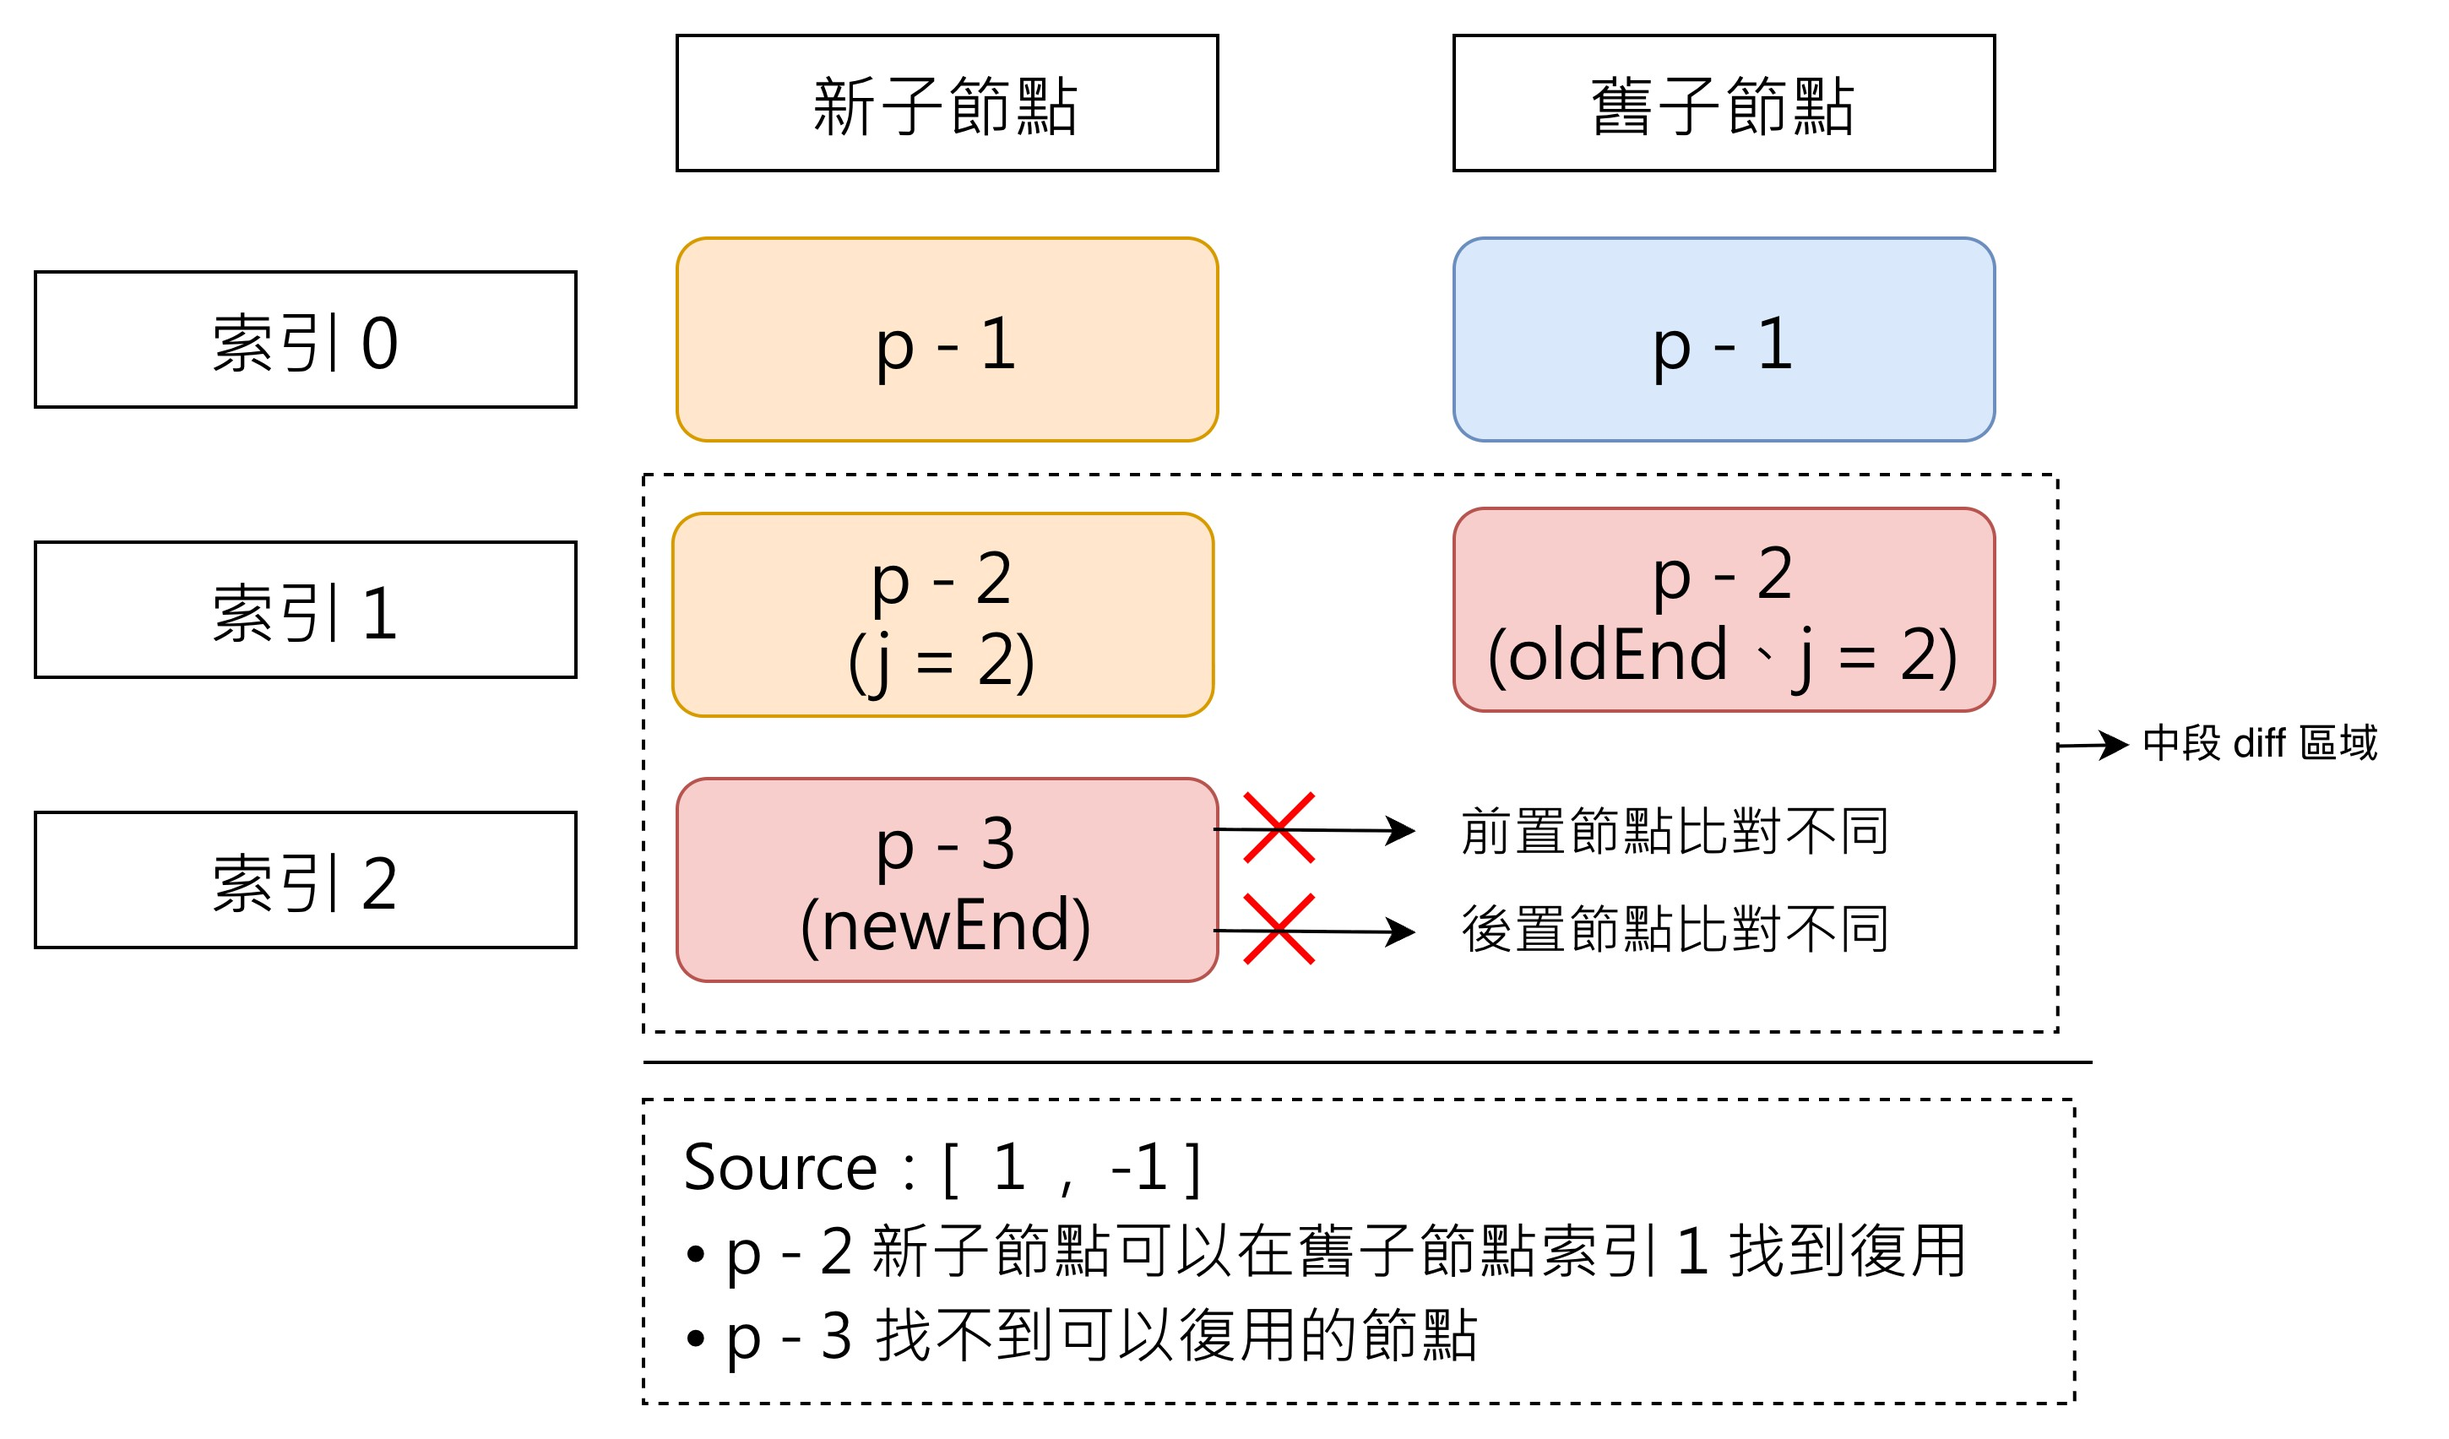
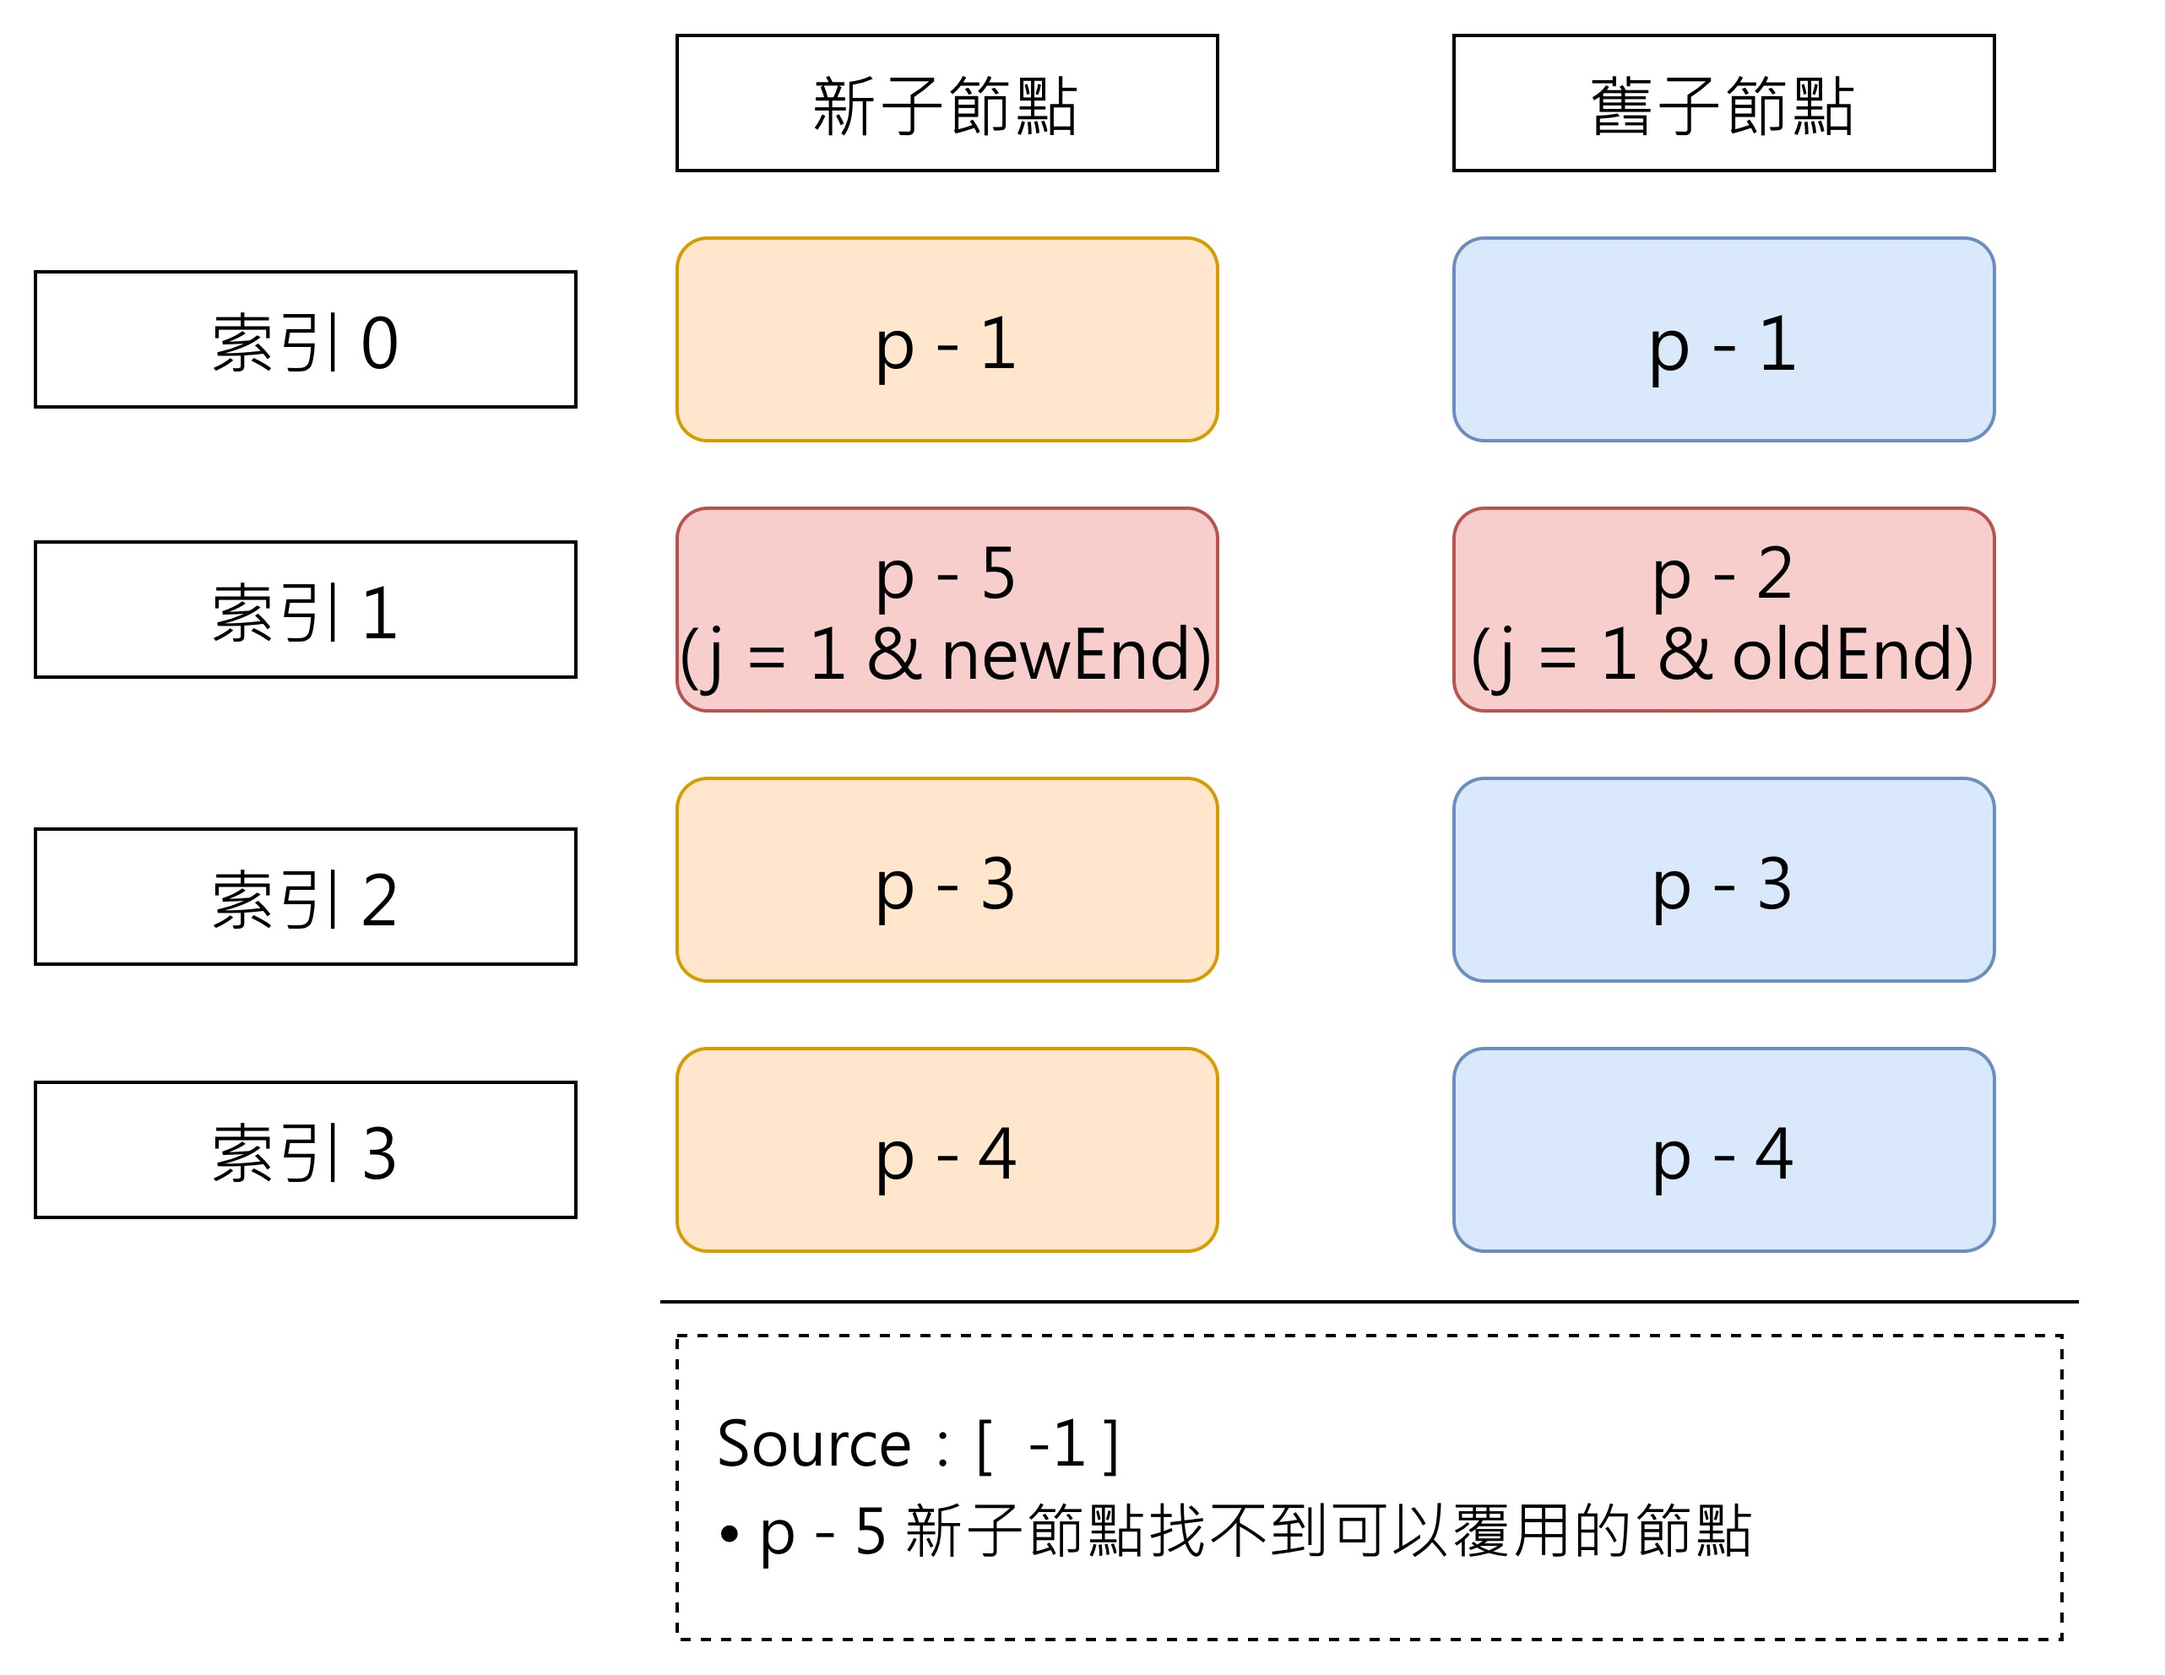
fix: 🐛 修正首頁副標題跑版 & 11-3-1 範例圖片錯誤

diff --git a/slides.md b/slides.md
@@ -29,7 +29,7 @@ seoMeta:
 
 # Vue3 快速 Diff 算法
 
-<div class="abs-br m-6 text-xl">
+<div class="text-xl">
   <a href="https://github.com/vuejs/core/blob/main/packages/runtime-core/src/renderer.ts#L1784" target="_blank" class="slidev-icon-btn">
     <span class="pr-2">快速 diff 原始碼連結(1784 開始)</span>
     <carbon:logo-github />
@@ -529,10 +529,9 @@ function patchKeyedChildren(n1, n2, container) {
 
 <div class="flex overflow-hidden gap-4">
 
+![新子節點掛載的情形](./public/11-3-1.jpg){.custom-img}
 
-![新子節點掛載的情形](./public/11-3-1.jpg)
-
-<div class="flex flex-col gap-3">
+<div class="flex flex-col gap-2">
 
   <v-click>  
 
@@ -546,13 +545,14 @@ function patchKeyedChildren(n1, n2, container) {
 
   **當我們處理完前面的步驟後：**
   - p-1 節點在前置比對中複用，位置不變
-  - p-2 節點在中段處理中複用，索引遞增，不需移動
+  - p-3 & p-4 節點在後置比對中複用，位置不變
+  - p-2 節點在中段處理中卸載，索引遞增，不需移動
 
   </v-click>
 
   <v-click>  
 
-  **★ 但我們遺漏了 p-3 節點！**
+  **★ 但我們遺漏了 p-5 節點！**
 
   </v-click>
 </div>
@@ -563,6 +563,10 @@ function patchKeyedChildren(n1, n2, container) {
 
 .slidev-layout p:has(> img){
   margin: auto;
+}
+
+p:has(.custom-img){
+  height: 100%;
 }
 
 </style>
@@ -623,7 +627,7 @@ function patchKeyedChildren(n1, n2, container) {
 
 </div>
 
-> anchor 是 null，將 p-3 插入新子節點陣列的最後面
+> anchor 是 newend + 1，將 p-5 插入新子節點 p-3 的前面
 
 ---
 
@@ -2279,7 +2283,7 @@ layout: center
 **通過 Proxy 代理組件實例，實現屬性訪問的統一管理**
 
 - **簡化屬性訪問**：直接通過 `this.count` 訪問數據，而不需要 `this.$data.count`
-- **訪問優先級控制**：按照特定順序查找屬性（`props` → `data`），避免屬性名稱衝突
+- **訪問優先級控制**：按照特定順序查找屬性，避免屬性名稱衝突
 - **響應式攔截**：在屬性讀取時觸發依賴收集，在屬性設置時觸發更新通知
 - **開發提示**：訪問不存在的屬性時提供警告，嘗試修改 props 時給出錯誤提示
 
